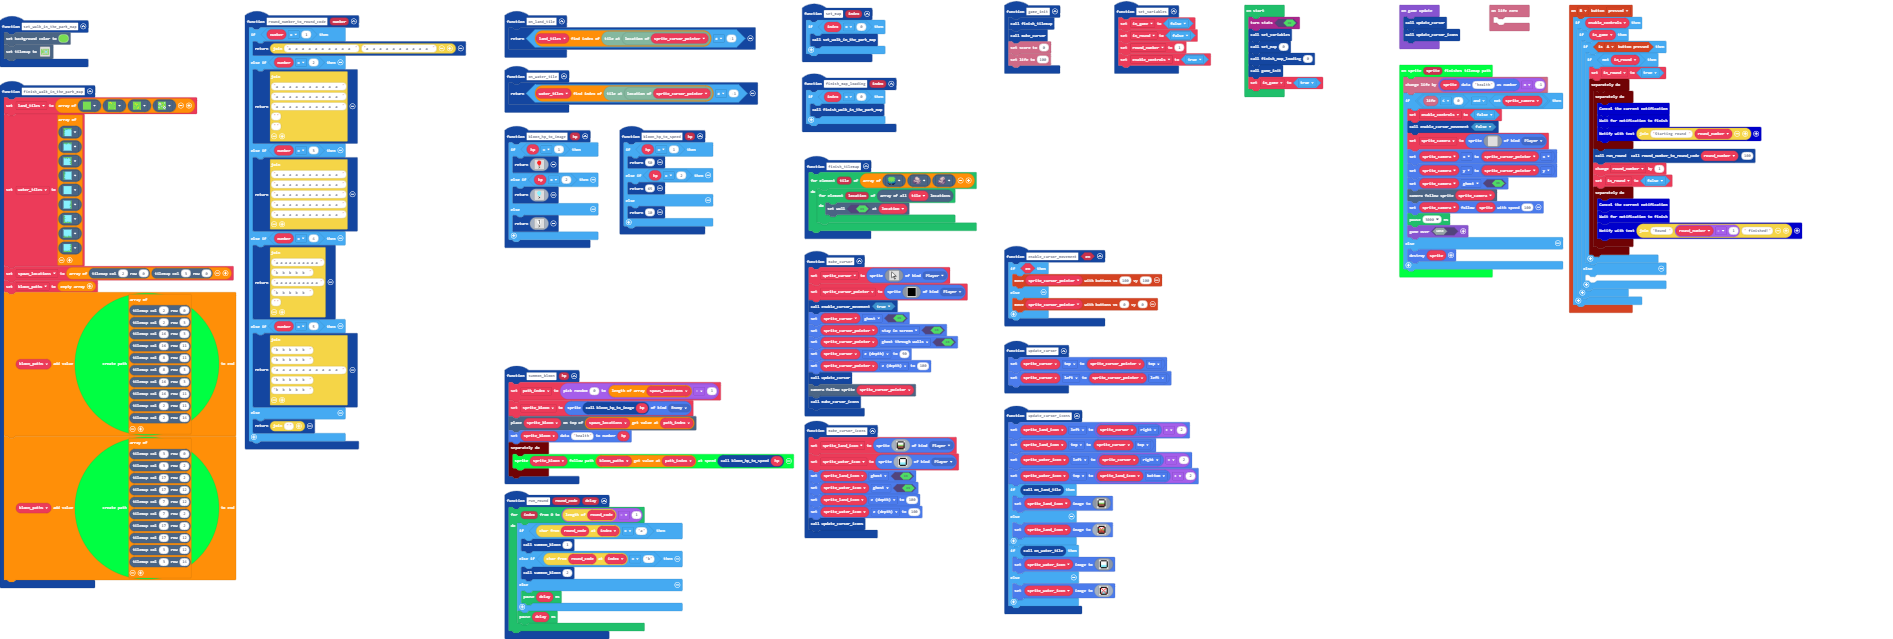
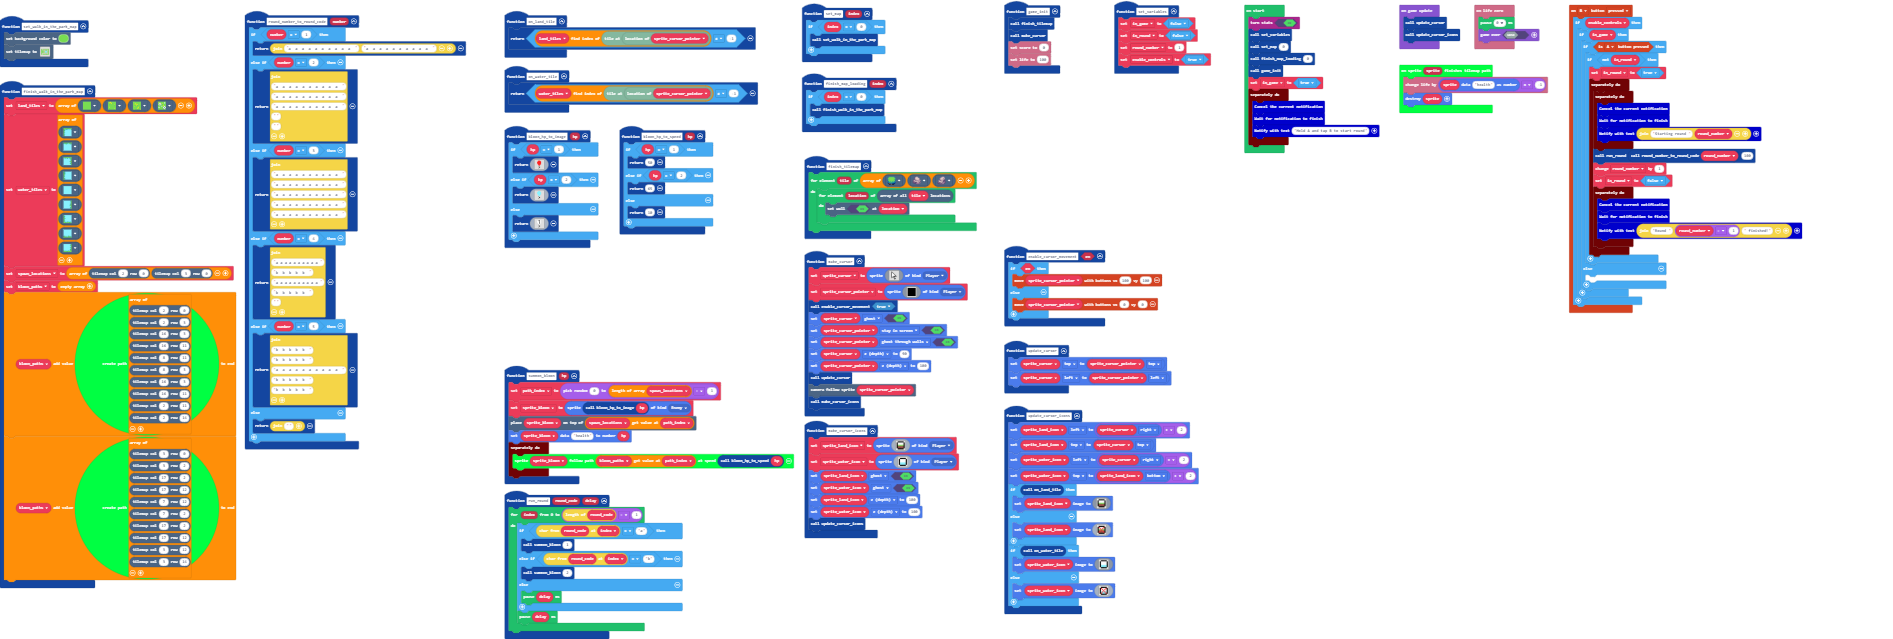
Fix game over

Changed region(s): [[0.6545, 0.1189, 0.8415, 0.446], [0.7792, 0.0, 0.8104, 0.0892]]

diff --git a/main.ts b/main.ts
@@ -179,7 +179,8 @@ function run_round (round_code: string, delay: number) {
     }
 }
 info.onLifeZero(function () {
-	
+    pause(0)
+    game.over(false)
 })
 function finish_map_loading (index: number) {
     if (index == 0) {
@@ -188,20 +189,7 @@ function finish_map_loading (index: number) {
 }
 TilemapPath.onEventWithHandlerArgs(function (sprite) {
     info.changeLifeBy(sprites.readDataNumber(sprite, "health") * -1)
-    if (info.life() <= 0 && !(sprite_camera)) {
-        enable_controls = false
-        enable_cursor_movement(false)
-        sprite_camera = sprites.create(assets.image`blank`, SpriteKind.Player)
-        sprite_camera.x = sprite_cursor_pointer.x
-        sprite_camera.y = sprite_cursor_pointer.y
-        sprite_camera.setFlag(SpriteFlag.Ghost, true)
-        scene.cameraFollowSprite(sprite_camera)
-        sprite_camera.follow(sprite, 100)
-        pause(3000)
-        game.over(false)
-    } else {
-        sprite.destroy()
-    }
+    sprite.destroy()
 })
 function update_cursor_icons () {
     sprite_land_icon.left = sprite_cursor.right + 2
@@ -230,7 +218,6 @@ function summon_bloon (hp: number) {
 }
 let sprite_bloon: Sprite = null
 let path_index = 0
-let sprite_camera: Sprite = null
 let bloon_paths: TilemapPath.TilemapPath[] = []
 let spawn_locations: tiles.Location[] = []
 let water_tiles: Image[] = []
@@ -249,6 +236,11 @@ set_map(0)
 finish_map_loading(0)
 game_init()
 in_game = true
+timer.background(function () {
+    Notification.cancelNotification()
+    Notification.waitForNotificationFinish()
+    Notification.notify("Hold A and tap B to start round")
+})
 game.onUpdate(function () {
     update_cursor()
     update_cursor_icons()
